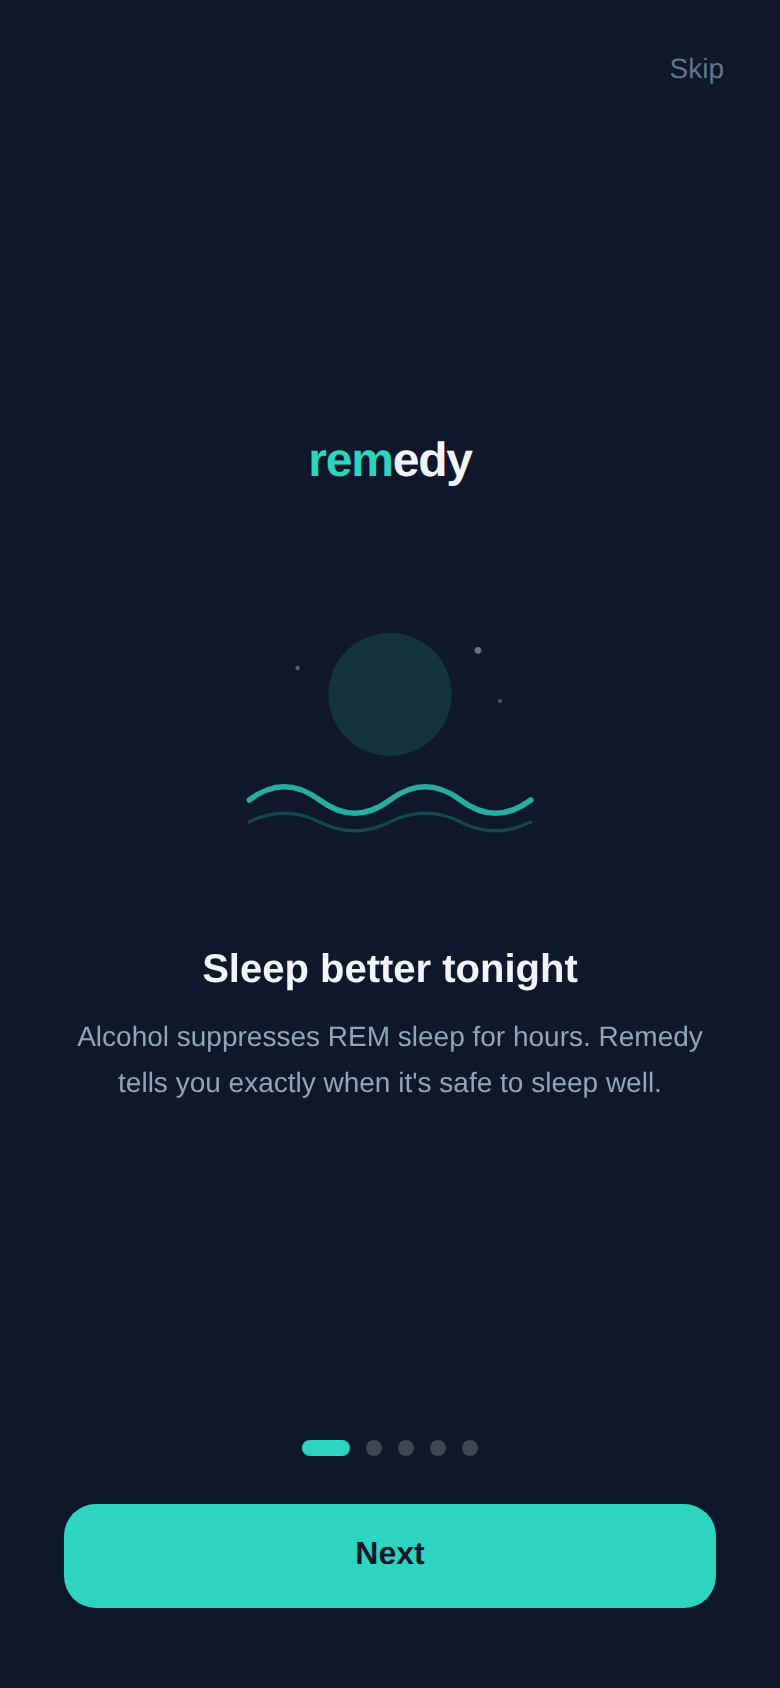
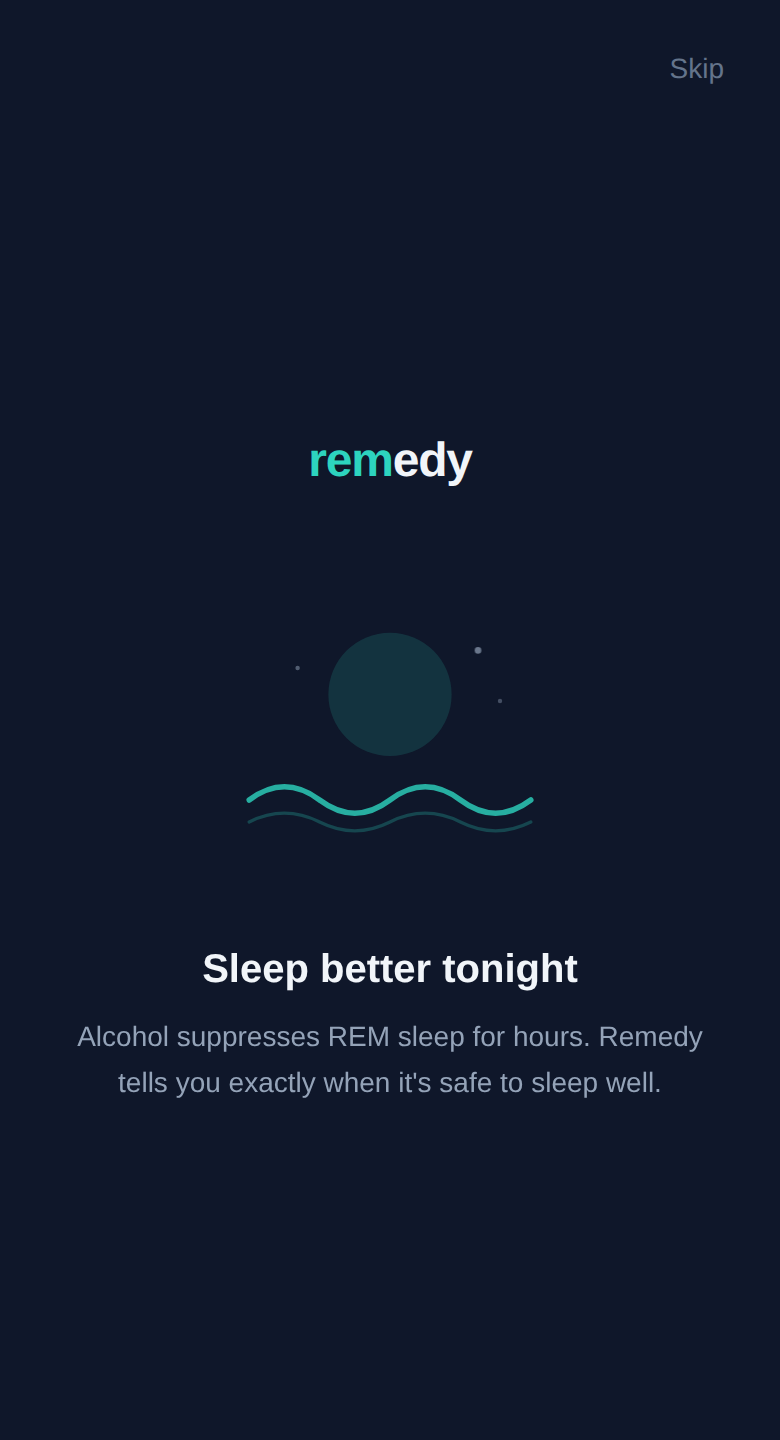
Standardize screenshot heights and simplify README
- Clip all screenshots to 720px height for consistent appearance
- Condense "What it does" section from 8 bullets to 3
- Remove "Undo" from feature list

https://claude.ai/code/session_01DsPsUywqPmyv1QM4HMqGXa

diff --git a/README.md b/README.md
@@ -21,14 +21,9 @@ If you are concerned about your alcohol consumption, please consult a healthcare
 
 ## What it does
 
-- **Log drinks** with one tap (standard) or custom amounts (e.g. 1.5 standard drinks)
-- **Real-time BAC** calculated using the Widmark formula, updating every second
-- **REM-safe countdown** — how long until alcohol clears enough for normal REM sleep
-- **REM impact estimate** — minutes of REM lost and percentage reduction if you sleep now
-- **"What if I have one more?"** — toggle hypothetical drinks to see projected impact
-- **BAC curve chart** with color-coded REM zones (safe / reduced / blocked)
-- **Timeline** of drink events, BAC milestones, and projected sober/REM-safe times
-- **Undo** last drink within 5 seconds
+- **Log drinks** and see real-time BAC, REM impact, and a countdown to REM-safe sleep
+- **"What if I have one more?"** — toggle a hypothetical drink to preview the impact
+- **BAC curve chart** with color-coded REM zones and a timeline of milestones
 
 ## The science
 
